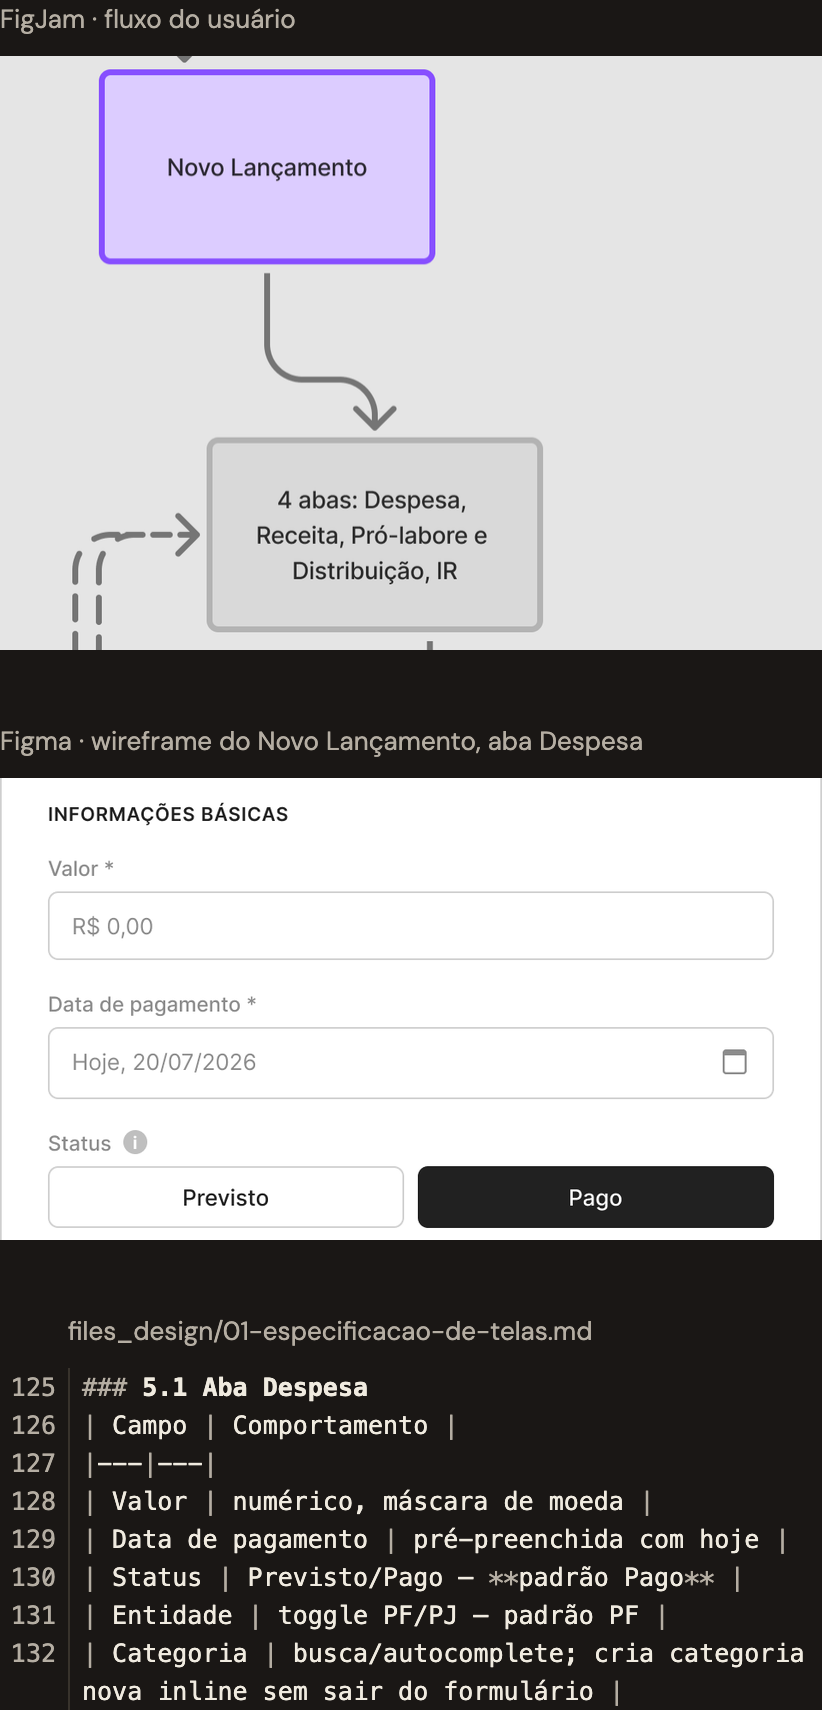
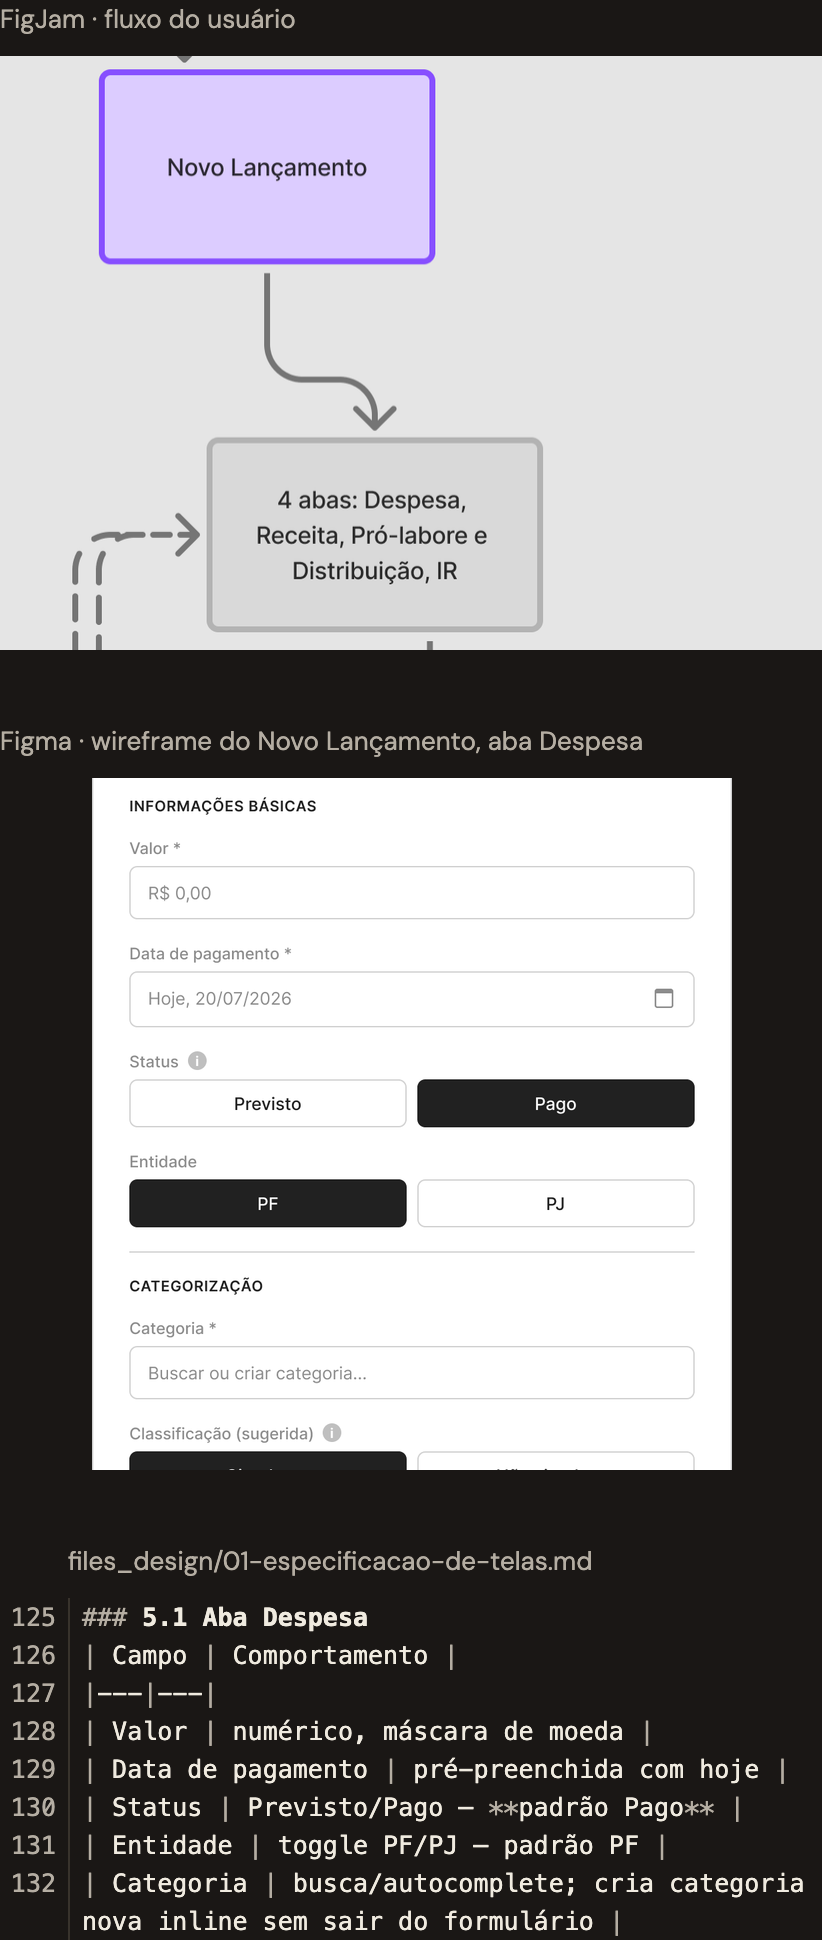
O wireframe do capítulo 3 do Finanças em 320px, até a Categoria (decisão 197)
A mídia passa a 822x1940 nos dois temas; o texto alternativo acompanha.
telas.json e trilha.json relidos: 6824 e 10700. As checagens seguem só com as 7
conhecidas.

diff --git a/case-study-financas-pf-pj.md b/case-study-financas-pf-pj.md
@@ -63,7 +63,7 @@ E a documentação virou artefato de handoff. Para cada tela, escrevi a especifi
 
 Parte da interface é gerada a partir do dado. Então documentei também as regras de renderização: o algoritmo por trás do desenho. Sem isso, quem fosse programar teria que inventar comportamento para cada caso extremo.
 
-![Três trechos do projeto, um acima do outro. Em cima, um recorte do board do FigJam com o fluxo do usuário: a caixa Novo Lançamento leva a 4 abas: Despesa, Receita, Pró-labore e Distribuição, IR; setas tracejadas chegam pela esquerda, cortadas na borda. No meio, o wireframe do Novo Lançamento na aba Despesa, no bloco Informações básicas: o campo Valor com R$ 0,00, a Data de pagamento já preenchida com hoje, 20/07/2026, e o Status com Pago selecionado. Embaixo, as linhas 125 a 132 da especificação de telas, como num editor: Valor numérico com máscara de moeda, Data de pagamento pré-preenchida com hoje, Status Previsto ou Pago com padrão Pago, Entidade com padrão PF, e Categoria com busca e criação de categoria nova sem sair do formulário.](publico/midias/financas-3-desenho.png)
+![Três trechos do projeto, um acima do outro. Em cima, um recorte do board do FigJam com o fluxo do usuário: a caixa Novo Lançamento leva a 4 abas: Despesa, Receita, Pró-labore e Distribuição, IR; setas tracejadas chegam pela esquerda, cortadas na borda. No meio, centralizado e mais estreito, o wireframe do Novo Lançamento na aba Despesa: o campo Valor com R$ 0,00, a Data de pagamento já preenchida com hoje, 20/07/2026, o Status com Pago selecionado, a Entidade com PF selecionado e, em Categorização, o campo Buscar ou criar categoria; o corte cai no começo de Classificação. Embaixo, as linhas 125 a 132 da especificação de telas, como num editor: Valor numérico com máscara de moeda, Data de pagamento pré-preenchida com hoje, Status Previsto ou Pago com padrão Pago, Entidade com padrão PF, e Categoria com busca e criação de categoria nova sem sair do formulário.](publico/midias/financas-3-desenho.png)
 Legenda: O mesmo Novo Lançamento em três lugares: no fluxo, por que a tela existe; no wireframe, o que a pessoa vê; na especificação, o que cada campo faz.
 
 ---

diff --git a/docs/log-de-decisoes.md b/docs/log-de-decisoes.md
@@ -6578,3 +6578,27 @@ linhas novas não têm par no wireframe recortado.
 
 **Consequência.** Figma reajustado: desktop com 6709, estreita com 10608, respiros de 96 e 64. Texto
 alternativo e `midias.json` atualizados.
+
+---
+
+## 197 · O wireframe do capítulo 3 fica mais estreito, centralizado e mostra até a Categoria
+
+**Quando** 2026-10-01 · **Fase** 4 · **Domínio** case
+
+**Gatilho.** Depois da 196, ela pediu para aumentar *"um pouco a tela do wireframe"*, ganhando altura
+com uma largura menor; vista a primeira versão (360 px), *"diminui mais um pouco a largura [...] sem
+aumentar altura, e centraliza ele"*.
+
+**Decisão.** O wireframe passa a 320 px de largura, centralizado na coluna, e o recorte do modal
+desce até o começo de *Classificação (sugerida)*: mostra Valor, Data de pagamento, Status, Entidade
+(PF selecionado) e o campo Categoria (*"Buscar ou criar categoria…"*). **Todas as linhas da
+especificação, 128 a 132, ganham par no desenho.** A peça fica com 411×970, arquivo em 822×1940.
+
+**Alternativa descartada.** *360 px de largura, recorte até a Categoria*: mesma altura, menos tela.
+*Parar na Entidade* ou *estreitar para manter os 855*: ela preferiu mostrar mais.
+
+**Custo aceito.** A peça é a mais alta dos três capítulos. A letra do wireframe fica a dois terços do
+tamanho real.
+
+**Consequência.** Figma reajustado: desktop com 6824, estreita com 10700, respiros de 96 e 64. Texto
+alternativo e `midias.json` atualizados.
